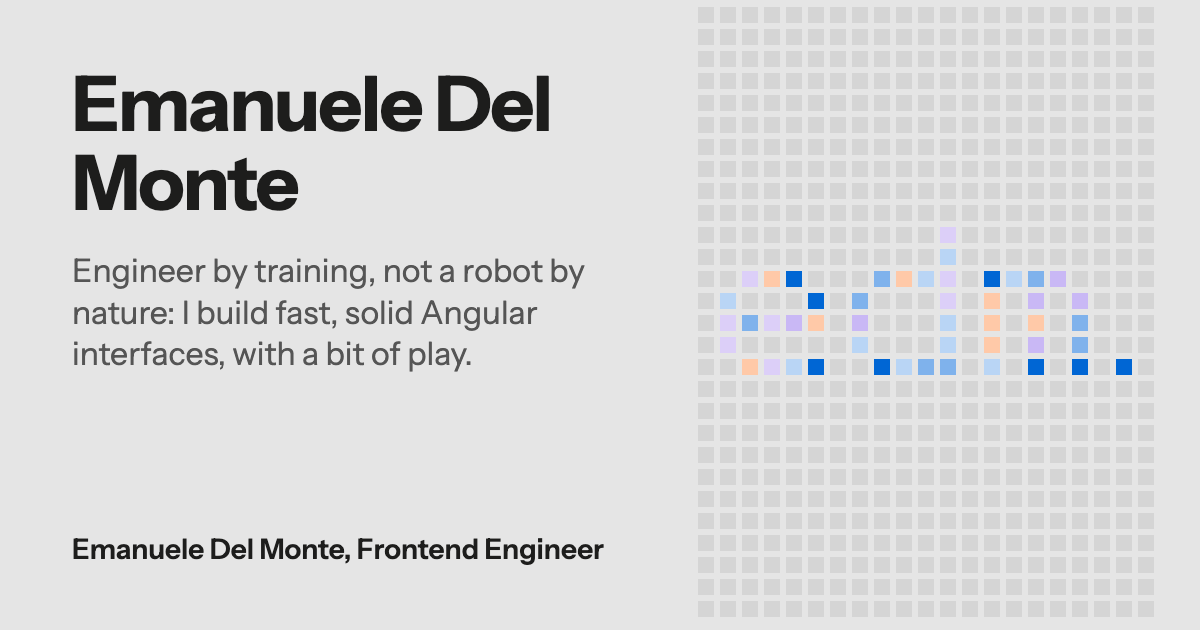
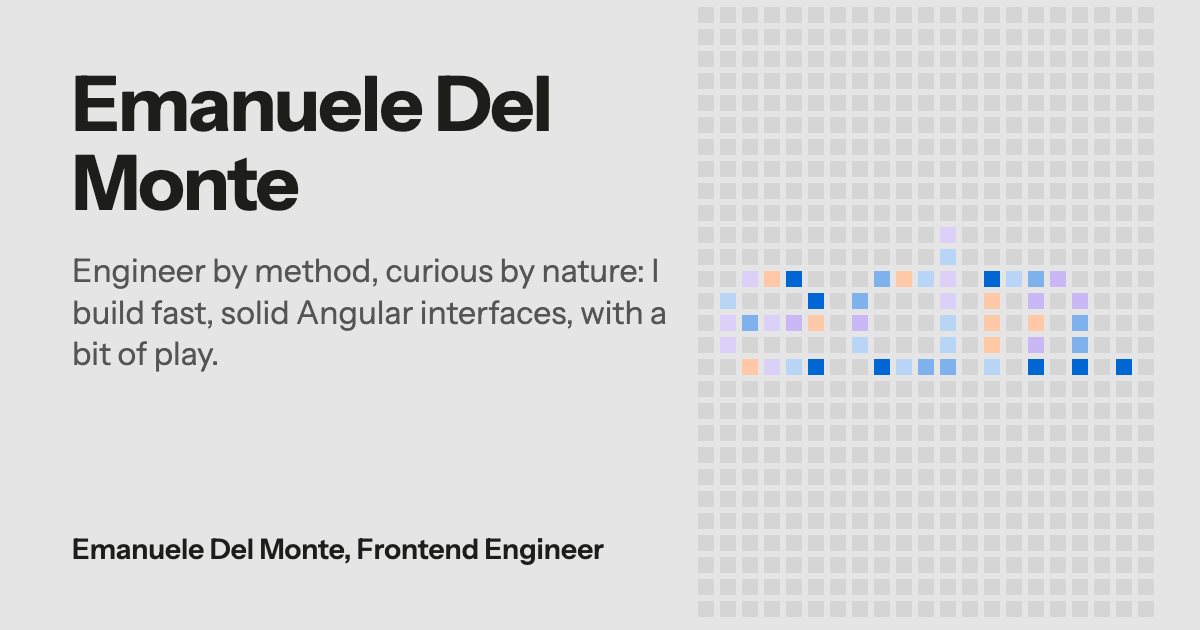
fix: the hero headline drops the robot for a curious engineer (#271)

Changed region(s): [[0.0617, 0.4825, 0.555, 0.6032], [0.2158, 0.3921, 0.555, 0.4524]]

diff --git a/src/app/content/content.it.ts b/src/app/content/content.it.ts
@@ -20,7 +20,7 @@ export const CONTENT_IT: SiteContent = {
       'Sviluppo interfacce Angular che restano veloci anche con molti dati. Frontend Engineer in IPS S.p.A. a Latina.',
   },
   hero: {
-    headline: 'Ingegnere di formazione, non un robot di natura: costruisco interfacce Angular veloci e solide, con un pizzico di gioco.',
+    headline: 'Ingegnere per metodo, curioso per natura: costruisco interfacce Angular veloci e solide, con un pizzico di gioco.',
     lede: 'Sono Emanuele, Frontend Engineer in IPS S.p.A., a Latina. Curo le parti che gli utenti non vedono ma sentono sempre, e qua e là nascondo un easter egg.',
   },
   aboutStatement: 'Curo le parti che nessuno vede ma tutti sentono.',

diff --git a/src/app/content/content.en.ts b/src/app/content/content.en.ts
@@ -19,7 +19,7 @@ export const CONTENT_EN: SiteContent = {
       'I build Angular interfaces that stay fast when the data gets big. Frontend Engineer at IPS S.p.A. in Latina, Italy.',
   },
   hero: {
-    headline: 'Engineer by training, not a robot by nature: I build fast, solid Angular interfaces, with a bit of play.',
+    headline: 'Engineer by method, curious by nature: I build fast, solid Angular interfaces, with a bit of play.',
     lede: "I'm Emanuele, Frontend Engineer at IPS S.p.A. in Latina. I care about the parts users never see but always feel, and I hide an easter egg here and there.",
   },
   aboutStatement: 'I care about the parts users never see but always feel.',
